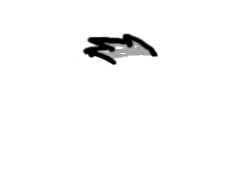
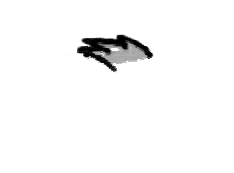
Mashtzarr fur and fur-lined hoods: refit from the user's fitter exports
Fur-lined hood: 1.12 x 0.93, -6.35/-6.10 plus the hood-hole quad (falloff
1.45, trim following). Fur hood: 1.0 x 0.86, same shift, its own hole quad.
Exported through the fitter as new *_mashtzarr_m.png files (the originals
stay shared with the simple hood); mashtzarr female uses the same refit
art. The crafted fur hood's nine mashtzarr animal pieces are warped in
place through the identical pipeline so they stay on the refitted base.
Tests accept a fitter refit (<stem>_<species>_<g>.png) of the pinned art.

Claude-Session: https://claude.ai/code/session_01XRZE2sVSA4jEZ2bpX92Ess

Changed region(s): [[0.3291, 0.1734, 0.688, 0.4335]]

diff --git a/scripts/test-fur-lined-hoods.js b/scripts/test-fur-lined-hoods.js
@@ -39,7 +39,10 @@ for (const [key, variant] of Object.entries(fine.speciesVariants)) {
   for (const [label, hood] of [['simple', simple], ['fur-lined', lined]]) {
     const layers = hood.speciesVariants[key]?.parts?.head?.layers;
     assert(layers?.front, key + ': missing ' + label + ' front hood layer');
-    assert.equal(layers.front.behindImage?.url, expectedBackUrl, key + ': ' + label + ' rear art differs from Fine Hood');
+    // Fine Hood's rear sprite, or a clothing-fitter refit of it (same stem + _<species>_<g>) that matches a refitted front.
+    const rear = layers.front.behindImage?.url || '';
+    const fittedRear = expectedBackUrl.replace(/_(m|f)\.png$/, '_' + key.split('_')[0] + '_$1.png');
+    assert(rear === expectedBackUrl || rear === fittedRear, key + ': ' + label + ' rear art differs from Fine Hood: ' + rear);
     assert(assetExists(expectedBackUrl), key + ': missing shared Fine Hood rear PNG ' + expectedBackUrl);
   }
   assert.equal(lined.speciesVariants[key].parts.head.layers.front_trim.behindImage, undefined, key + ': fur trim must not override the rear sprite');
@@ -51,13 +54,15 @@ for (const [key, variant] of Object.entries(fine.speciesVariants)) {
   assert.equal(simpleLayers?.length, 1, key + ': Simple Hood must have one layer');
   assert.equal(linedLayers?.length, 2, key + ': Fur-lined Hood must retain base and trim for its front view');
   assert.equal(portraitContext._getBehindLayerUrl(simpleLayers[0], liveSimple, gender), expectedRuntimeBack, key + ': Simple Hood resolver did not select Fine Hood art');
-  assert.equal(portraitContext._getBehindLayerUrl(linedLayers[0], liveLined, gender), expectedRuntimeBack, key + ': Fur-lined Hood resolver did not select Fine Hood art');
+  const linedRear = portraitContext._getBehindLayerUrl(linedLayers[0], liveLined, gender); // Fine Hood art, or its refit copy when the front was refitted.
+  assert(linedRear === expectedRuntimeBack || linedRear === expectedRuntimeBack.replace(/_(m|f)\.png$/, '_' + key.split('_')[0] + '_$1.png'), key + ': Fur-lined Hood resolver did not select Fine Hood art: ' + linedRear);
   assert.equal(portraitContext._getBehindLayerUrl(linedLayers[1], liveLined, gender), linedLayers[1].url, key + ': fur trim must reuse its existing art on the rear plane');
   const linedRearLayers = linedLayers.map(layer => ({ layer })); // A rear-only stack allows comparison without mutating the real front-view order.
   portraitContext._placeFurLinedTrimBehindRearHood(linedRearLayers, liveLined);
   assert.equal(linedRearLayers[0].layer.paletteColorKey, 'B', key + ': fur trim must render behind the rear hood shell');
   assert.equal(linedRearLayers[1].layer.paletteColorKey, 'A', key + ': the rear hood shell must cover the trim');
-  assert.equal(portraitContext._getBehindLayerUrl(linedRearLayers[1].layer, liveLined, gender), expectedRuntimeBack, key + ': rear shell mapping changed');
+  const shell = portraitContext._getBehindLayerUrl(linedRearLayers[1].layer, liveLined, gender);
+  assert(shell === expectedRuntimeBack || shell === expectedRuntimeBack.replace(/_(m|f)\.png$/, '_' + key.split('_')[0] + '_$1.png'), key + ': rear shell mapping changed: ' + shell);
   assert.equal(linedLayers[0].paletteColorKey, 'A', key + ': front hood base must retain its original first-layer position');
   assert.equal(linedLayers[1].paletteColorKey, 'B', key + ': front fur trim must retain its original second-layer position');
 }
@@ -73,10 +78,12 @@ for (const [key, suffix] of [['tletingan_male', 'tl_m'], ['mashtzarr_male', 'mas
   assert.deepEqual(Object.keys(plain).filter(name => !name.startsWith('front_exposed_')), ['front'], key + ' plain hood must contain no trim');
   assert.equal(plain.front.layerRole, 'base');
   assert.equal(plain.front.image.url, './assets/cosmetics/clothes/hood/simplehood_' + suffix + '.png');
-  assert.equal(fur.front.image.url, plain.front.image.url);
+  const refit = url => url.replace(/_(m|f)\.png$/, '_' + key.split('_')[0] + '_$1.png'); // Clothing-fitter refit of the same sprite.
+  assert(fur.front.image.url === plain.front.image.url || fur.front.image.url === refit(plain.front.image.url), key + ': fur-lined base is the simple hood art or its refit: ' + fur.front.image.url);
   assert.equal(fur.front_trim.layerRole, 'trim');
   assert.deepEqual(fur.front_trim.image.colors, ['B']);
-  assert.equal(fur.front_trim.image.url, './assets/cosmetics/clothes/hood/furlinedhood-trim_' + suffix + '.png');
+  const trimUrl = './assets/cosmetics/clothes/hood/furlinedhood-trim_' + suffix + '.png';
+  assert(fur.front_trim.image.url === trimUrl || fur.front_trim.image.url === refit(trimUrl), key + ': fur-lined trim art: ' + fur.front_trim.image.url);
   for (const value of [plain.front, fur.front, fur.front_trim]) {
     assert(assetExists(value.image.url), key + ': missing source sprite ' + value.image.url);
     if (value.behindImage?.url) assert(assetExists(value.behindImage.url), key + ': missing behind sprite ' + value.behindImage.url);

diff --git a/scripts/test-fur-hood-leatherworking.js b/scripts/test-fur-hood-leatherworking.js
@@ -31,7 +31,9 @@
     const parts = Object.values(cosmetic.speciesVariants[key].parts.head.layers); // Uses real wearer-specific sprites rather than a fine-hood stand-in.
     for (const role of ['base','trim']) {
       const image = parts.find(part => part.layerRole === role)?.image?.url;
-      assert(image?.includes('furhood-' + role + '_' + suffix + '.png'), key + ' must use its uploaded fur artwork');
+      // The uploaded sprite, or a clothing-fitter refit of it (furhood-base_mashtz_mashtzarr_m.png).
+      const fitted = suffix.replace(/_(m|f)$/, '_' + key.split('_')[0] + '_$1');
+      assert(image?.endsWith('furhood-' + role + '_' + suffix + '.png') || image?.endsWith('furhood-' + role + '_' + fitted + '.png'), key + ' must use its uploaded fur artwork: ' + image);
       assert(fs.existsSync(path.join(root, 'docs', image.replace(/^\.\//, ''))), 'missing garment PNG: ' + image);
     }
   }
@@ -120,8 +122,11 @@
     const hoodConfig=JSON.parse(read('docs/config/cosmetics/fur_hood.json'));
     for(const [key,suffix] of [['tletingan_male','tl_m'],['mashtzarr_male','mashtz_m']]){
       const layers=hoodConfig.speciesVariants[key].parts.head.layers;
-      assert(layers.front.behindImage.url.endsWith('furhood-behind_'+suffix+'.png'),'backplane replaces base with dedicated rear art');
-      assert(layers.front_trim.behindImage.url.endsWith('furhood-trim_'+suffix+'.png'),'rear plane retains furhood-trim sprite');
+      // Uploaded art, or its clothing-fitter refit (e.g. furhood-behind_mashtz_mashtzarr_m.png).
+      const fitted=suffix.replace(/_(m|f)$/,'_'+key.split('_')[0]+'_$1');
+      const isArt=(url,stem)=>url.endsWith(stem+'_'+suffix+'.png')||url.endsWith(stem+'_'+fitted+'.png');
+      assert(isArt(layers.front.behindImage.url,'furhood-behind'),'backplane replaces base with dedicated rear art: '+layers.front.behindImage.url);
+      assert(isArt(layers.front_trim.behindImage.url,'furhood-trim'),'rear plane retains furhood-trim sprite: '+layers.front_trim.behindImage.url);
       assert(fs.existsSync(path.join(root,'docs',layers.front.behindImage.url)),'rear hood art must be bundled in the feature branch');
     }
     assert.equal(window.FurHoodLeatherworking.isPendingAsset(expectedNelkBack),false,'newly imported Nelk rear image is no longer pending');
